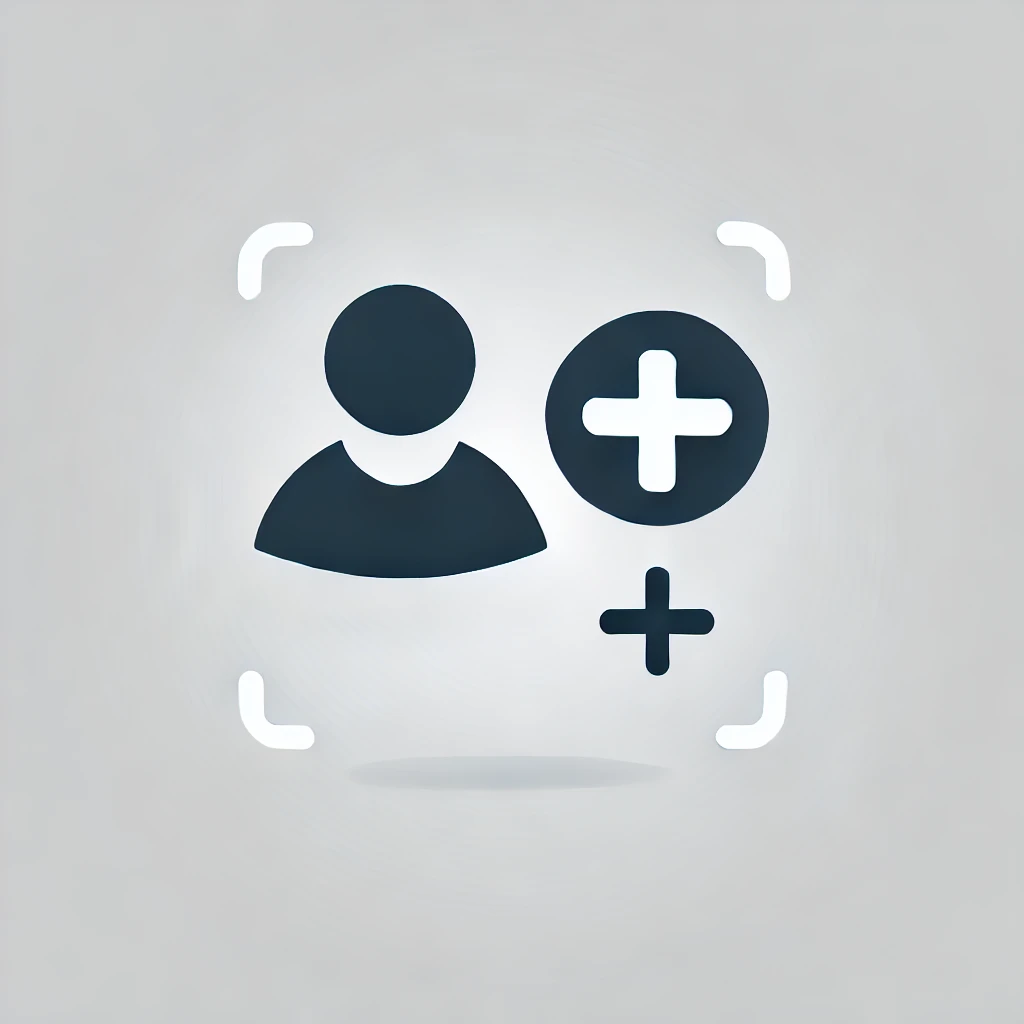
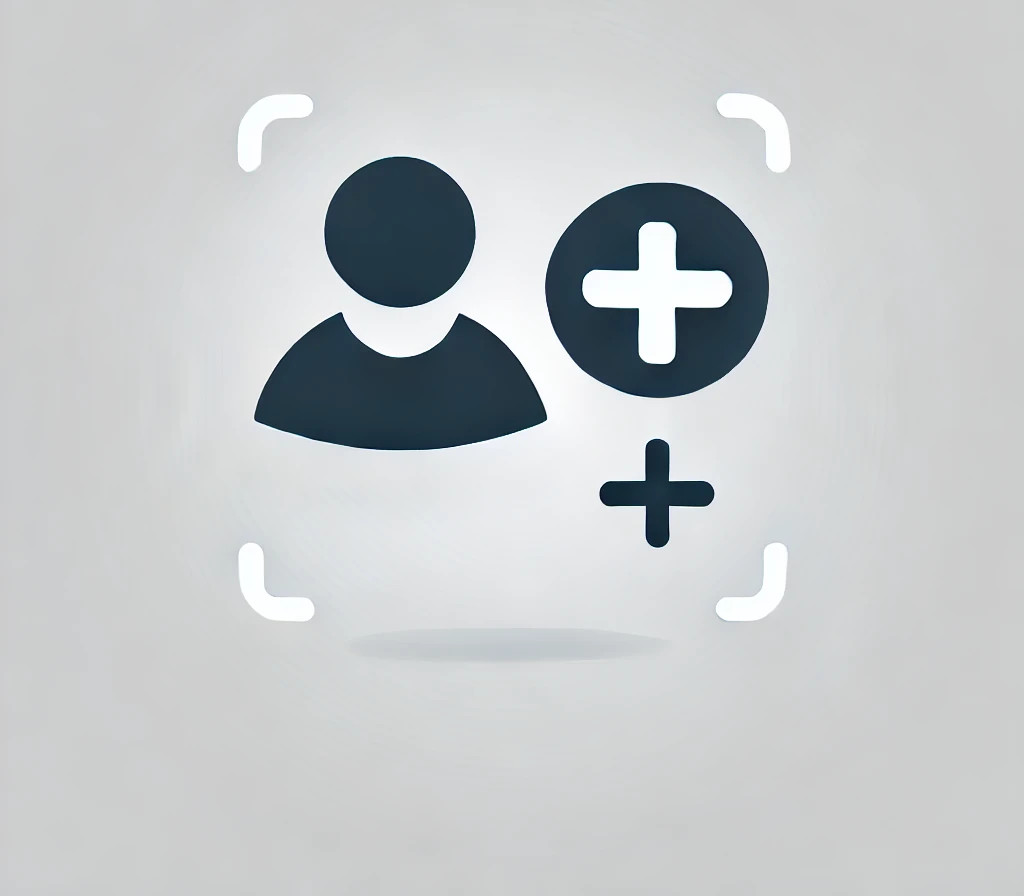
Refactor dashboard layout for improved background handling and update sidebar link text

diff --git a/projecteBackend/resources/css/index.css b/projecteBackend/resources/css/index.css
@@ -68,9 +68,9 @@
 }
 
 .background-container {
-    position: relative;
-    min-height: 180vh; /* Reducido */
+    position: absolute;
     width: 100%;
+    height: 100%;
     overflow: hidden;
 }
 
@@ -80,21 +80,21 @@
     top: 0;
     left: 0;
     min-height: 100vh;
-    width: 45%; /* Reducido */
-    padding: 0.8rem; /* Reducido */
+    width: 45%;
+    padding: 0.8rem;
     display: flex;
     flex-direction: column;
-    gap: 0.8rem; /* Reducido */
+    gap: 0.8rem;
 }
 
 .background-image {
     background-repeat: no-repeat;
     background-size: cover;
-    background-position: center;
+    background-position: top;
     width: 100%;
     height: 100%;
     position: absolute;
-    top: 0;
+    margin-top: 0;
     left: 0;
     z-index: 0;
     transition: background-image 0.5s ease-in-out;
@@ -103,6 +103,8 @@
 .dark-overlay {
     position: absolute;
     inset: 0;
+    width: 100%;
+    height: 100%;
     background-color: rgba(0, 0, 0, 0.6);
     z-index: 1;
 }

diff --git a/projecteBackend/resources/views/dashboard.blade.php b/projecteBackend/resources/views/dashboard.blade.php
@@ -1,5 +1,4 @@
 <x-app-layout>
-    <div class="fondo">
         <div x-data="{ imageSrc: '/images/userImage.jpg' }" class="relative background-container">
             
             <div :style="{ backgroundImage: 'url(' + imageSrc + ')' }" class="absolute inset-0 background-image"></div>
@@ -7,11 +6,10 @@
             <div class="dark-overlay"></div>
 
             <div class="w-2/4 p-4 space-y-4 sidebar">
-                <a href="#" @mouseover="imageSrc = '/images/userImage.jpg'" class="link">Link 1</a>
-                <a href="#" @mouseover="imageSrc = '/images/DownUsers.jpg'" class="link">Link 2</a>
-                <a href="#" @mouseover="imageSrc = '/images/UpUsers.jpg'" class="link">Link 3</a>
-                <a href="#" @mouseover="imageSrc = '/images/image4.jpg'" class="link">Link 4</a>
+                <a href="#" @mouseover="imageSrc = '/images/userImage.jpg'" class="link">Usuarios</a>
+                <a href="#" @mouseover="imageSrc = '/images/DownUsers.jpg'" class="link">Dar de baja</a>
+                <a href="#" @mouseover="imageSrc = '/images/UpUsers.jpg'" class="link">Dar de alta</a>
+                <a href="#" @mouseover="imageSrc = '/images/ModifiUser.jpg'" class="link">Modificar usuarios</a>
             </div>
         </div>
-    </div>
 </x-app-layout>
